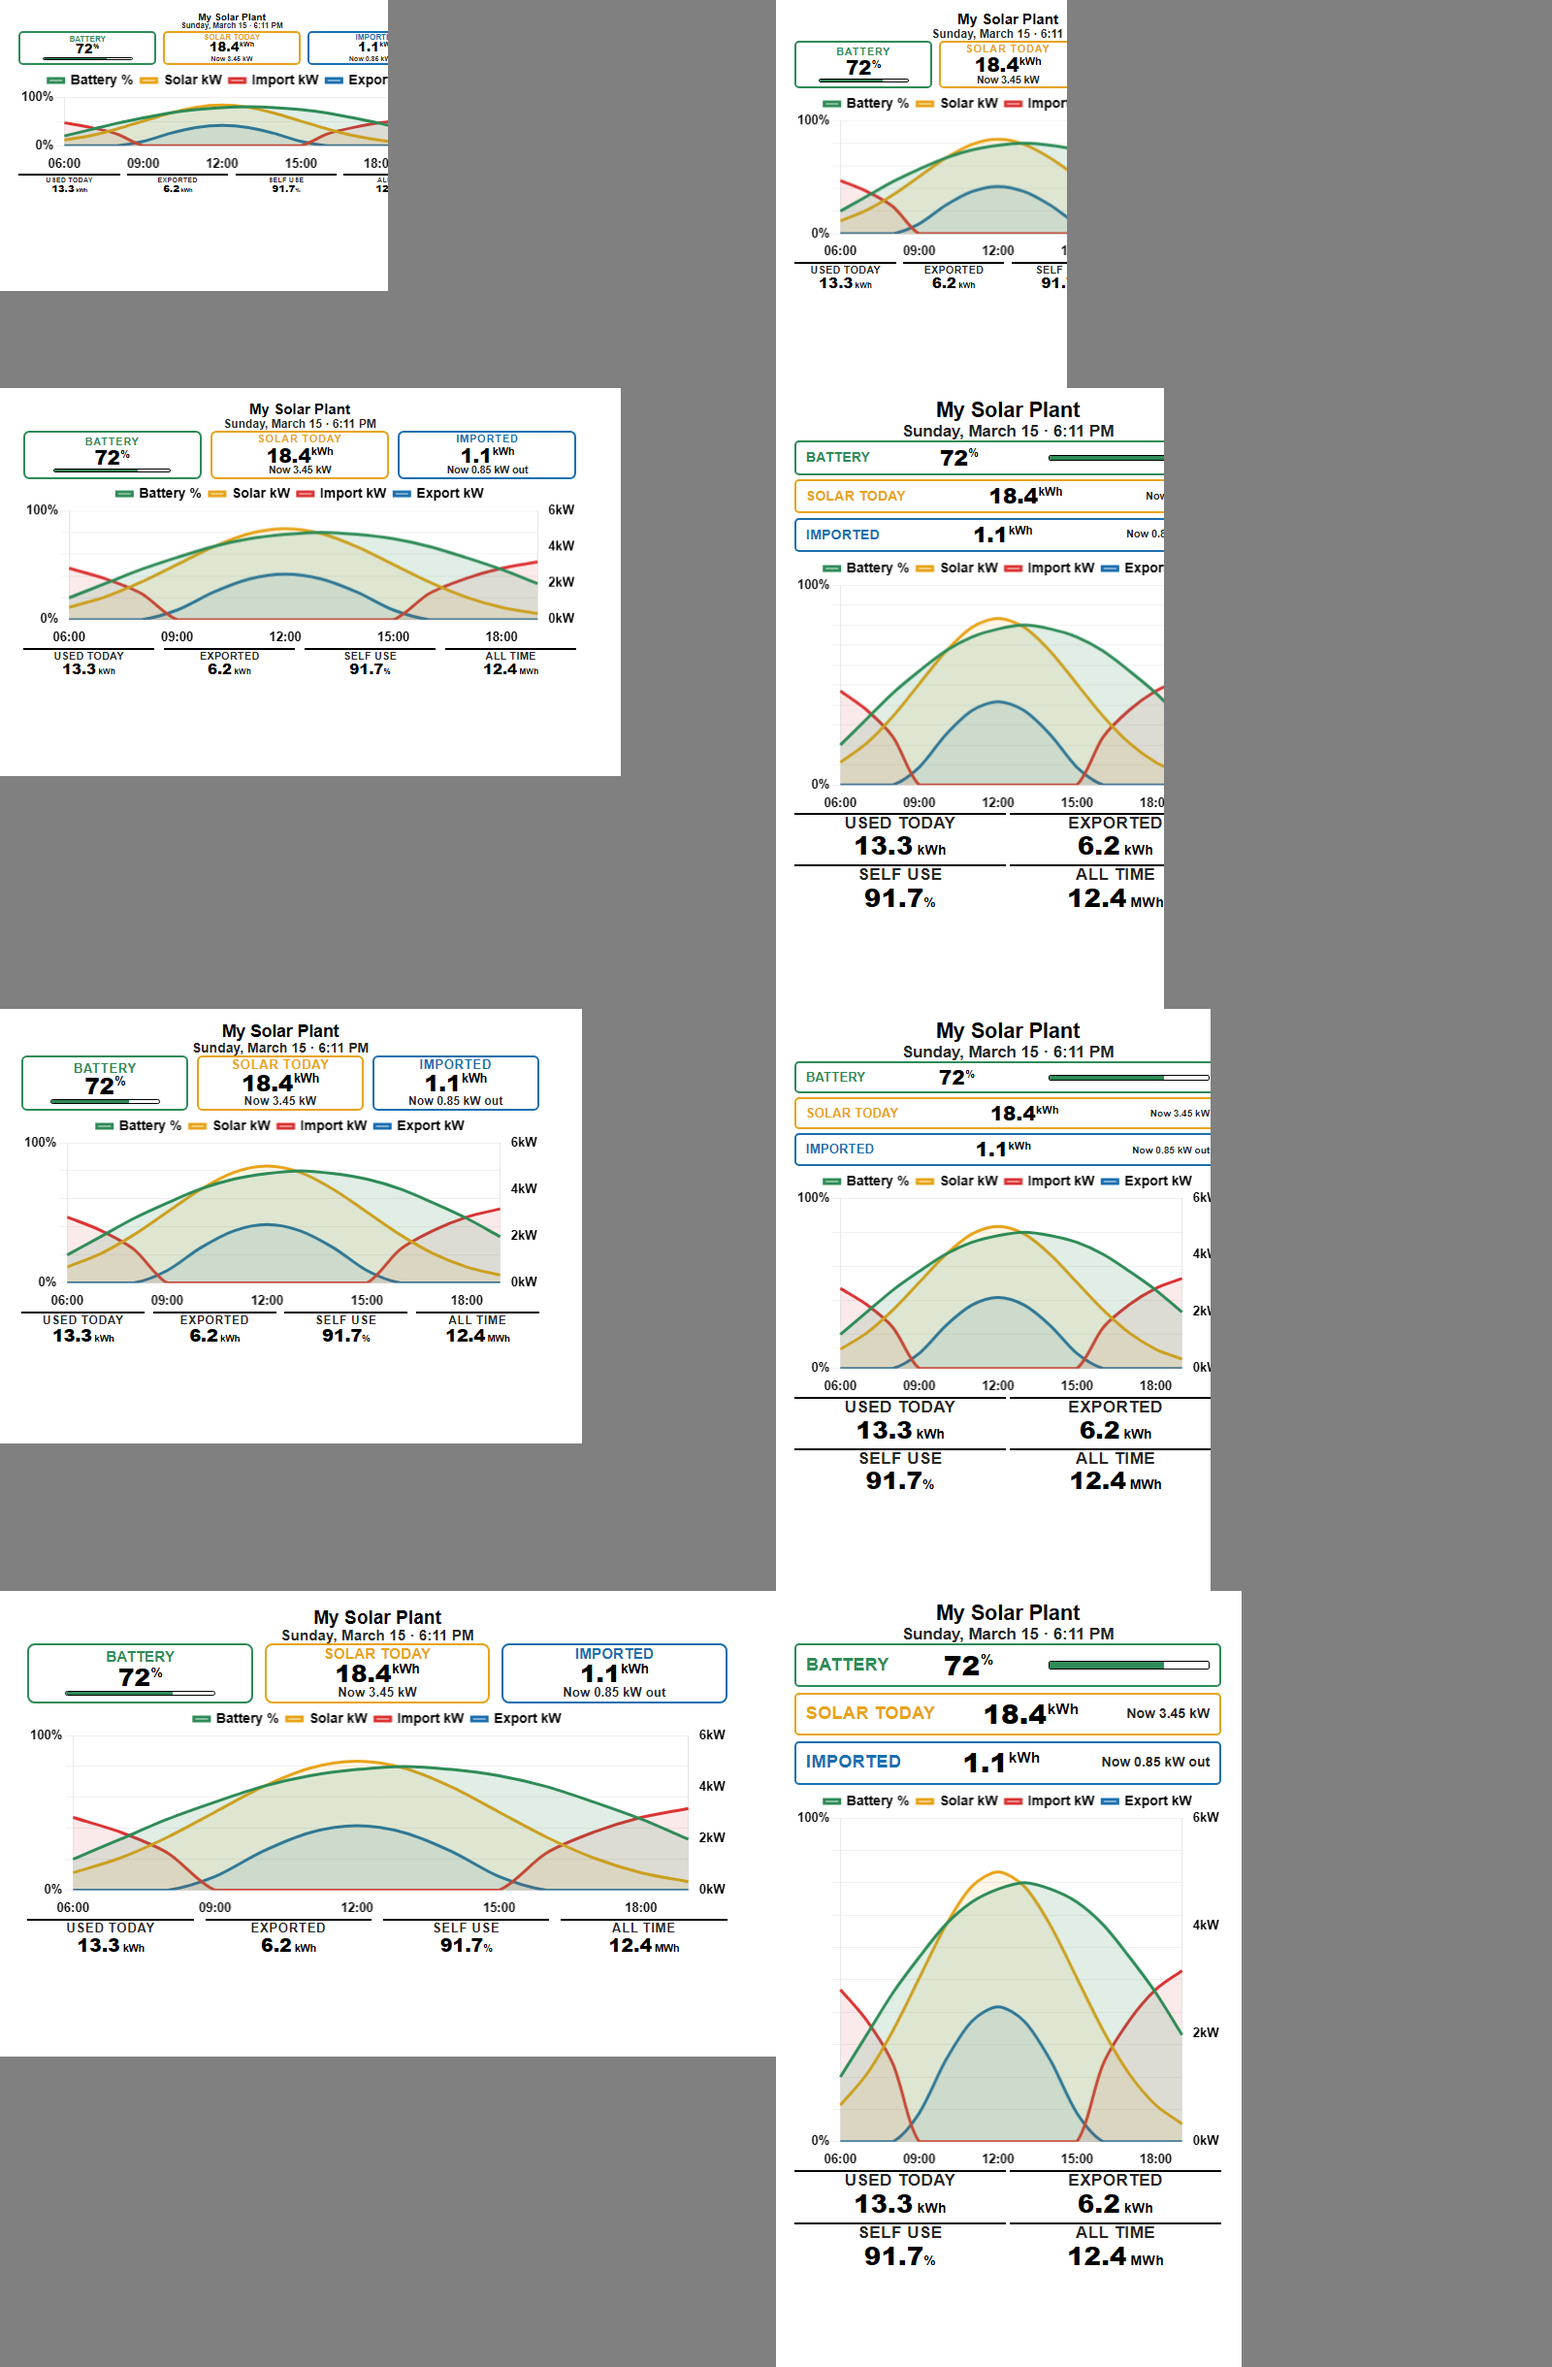
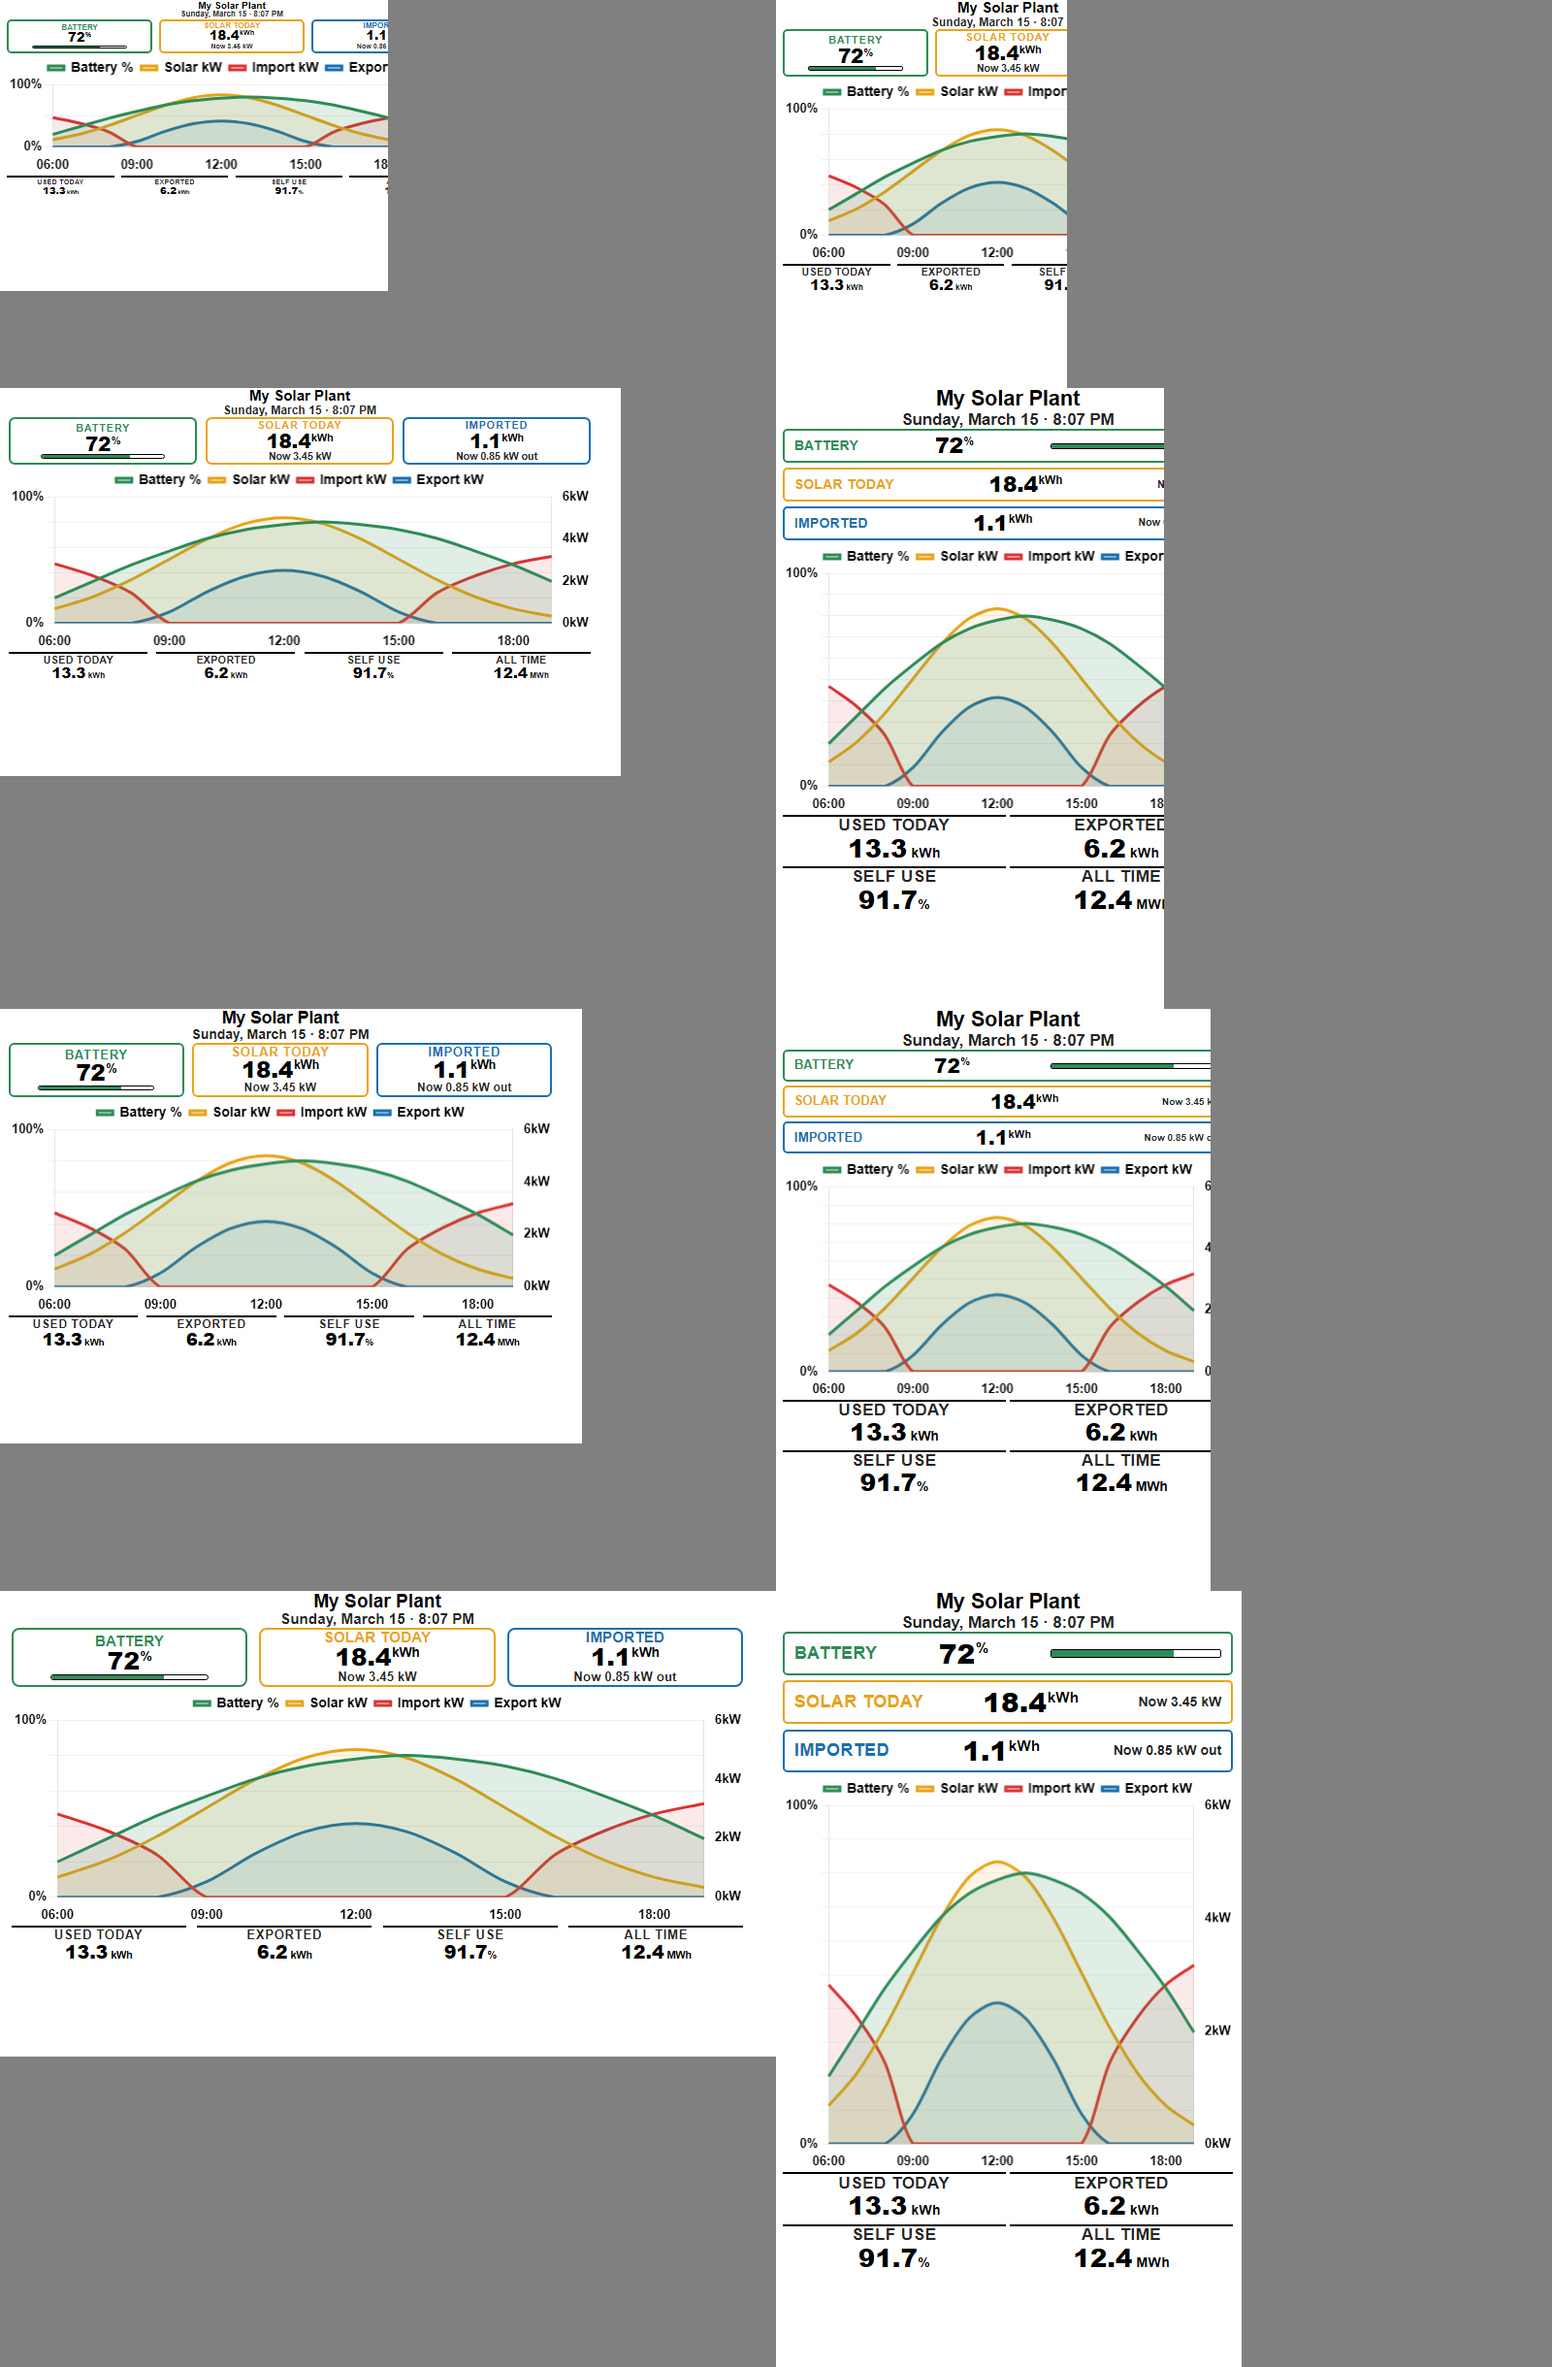
Fix CSS: override base template padding/margins so dvh units fill viewport correctly

diff --git a/isolarcloud/render/isolarcloud.css b/isolarcloud/render/isolarcloud.css
@@ -6,6 +6,12 @@
   padding: 0;
 }
 
+/* Override base template inline styles so dvh units match the actual content area */
+body {
+  margin: 0 !important;
+  padding: 0 !important;
+}
+
 /* Height chain: needed so the dashboard's height: 100% resolves to the viewport */
 html, body, .container {
   height: 100%;
